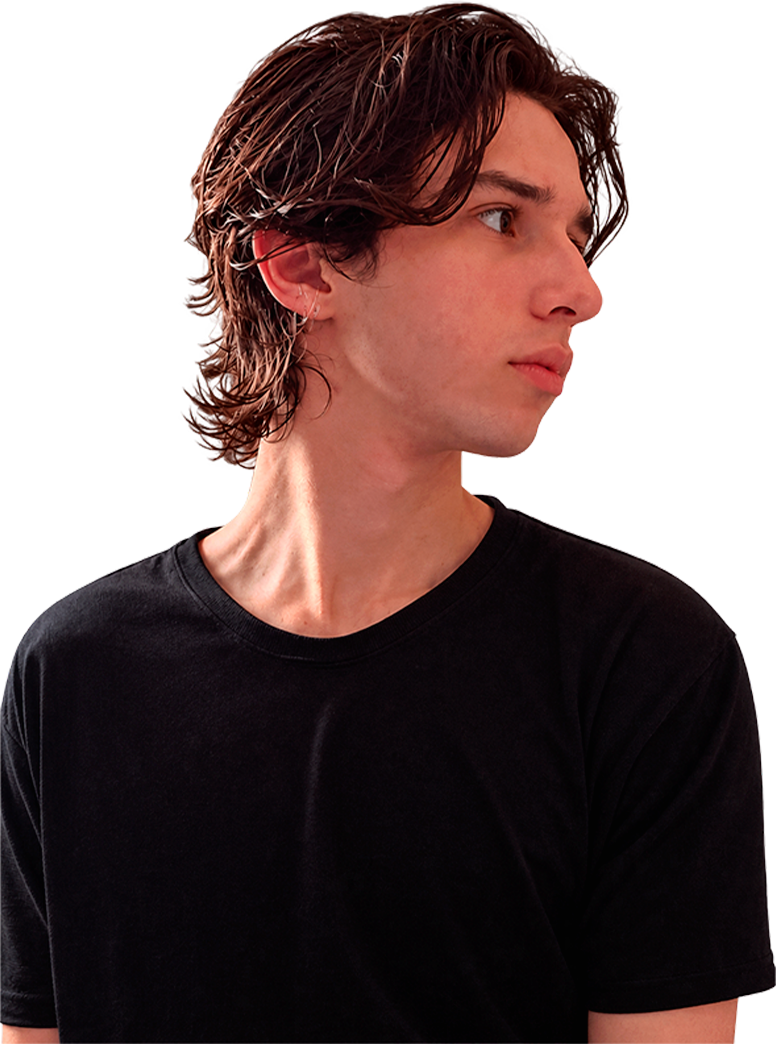
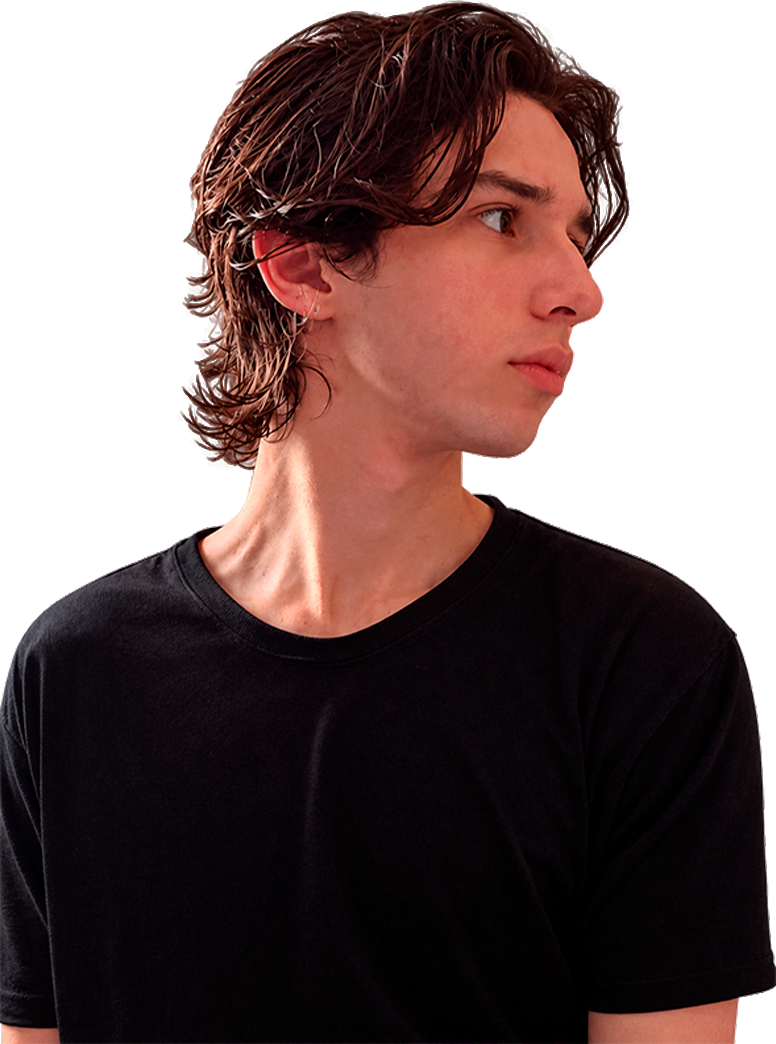
finished scope

diff --git a/app/page.tsx b/app/page.tsx
@@ -1,14 +1,17 @@
 "use client"
 
 import { themes } from "@/config/themes";
-import Name from "@/components/animation/Name";
+import MobilePage from "@/functions/MobilePage";
+
 import { hwrite } from "@/functions/HeaderWrite";
 import { pwrite } from "@/functions/ProjectsWrite";
 import { awrite } from "@/functions/AboutWrite";
-import MobilePage from "@/functions/MobilePage";
+
+import Name from "@/components/animation/Name";
 import { TechCards, WorkflowCards, ContactCards } from "@/components/Tech";
 import ProjectButton from "@/components/animation/ProjectButton";
 import Theme from "@/components/Theme Button";
+import Person from "@/components/Person";
 
 import gsap from "gsap";
 
@@ -70,6 +73,33 @@ export default function Home() {
   });
     });
 
+  mm.add("(min-width: 769px)", () => {
+      
+      if (!container.current
+        || !header.current
+        || !about.current
+        || !skills.current
+        || !projects.current
+        || !contact.current
+        || !PRcontainer.current
+        || !PRproject_1.current
+        || !PRproject_2.current
+        || !PRproject_3.current) return;
+
+      return MobilePage({
+    container: container.current,
+    header: header.current,
+    about: about.current,
+    skills: skills.current,
+    projects: projects.current,
+    contact: contact.current,
+    PRcontainer: PRcontainer.current,
+    PRproject_1: PRproject_1.current,
+    PRproject_2: PRproject_2.current,
+    PRproject_3: PRproject_3.current,
+  });
+    });
+
     return () => mm.revert();
   }, []);
 
@@ -77,7 +107,7 @@ export default function Home() {
     <div
       ref={container}
       className={`w-full h-screen flex overflow-hidden ${themes[currentTheme].background}
-      relative`}
+      relative ${themes[currentTheme].selection_background} ${themes[currentTheme].selection_text}`}
     >
         <div ref={header} className={`${themes[currentTheme].background} w-screen h-screen flex flex-col justify-between shrink-0 header pointer-events-auto`}>
           <div className="ml-5 mt-20 lg:mt-10 flex flex-col max-w-[250px] md:max-w-[300px] w-auto gap-1">
@@ -86,8 +116,8 @@ export default function Home() {
               <Theme themes={themes} currentTheme={currentTheme} setCurrentTheme={setCurrentTheme}/>
           </div>
           {windowWidth <= 768 ? <Image src='/Imagens/Mobile.png' width={768} height={1024} alt='personality'
-          className="w-full h-fit"></Image> : <Image src='/Imagens/Desktop.png' width={1536} height={864} alt='personality'
-          className="w-3/5 h-fit absolute right-0 bottom-0"></Image>}
+          className="w-full h-fit select-none"></Image> : <Image src='/Imagens/Desktop.png' width={1536} height={864} alt='personality'
+          className="w-3/5 h-fit absolute right-0 bottom-0 select-none"></Image>}
         </div>
 
 
@@ -102,18 +132,25 @@ export default function Home() {
             </div>
 
             <Image src={'/Imagens/Person Mobile.png'} width={768} height={1024} alt="me"
-            className="w-[90%] h-fit"></Image>
+            className="w-[90%] sm:w-[50%] md:w-[55%] h-fit select-none"></Image>
           </div>
-          : ''}
+          : <div className="w-screen h-screen flex items-end">
+            <div className="w-full h-full flex flex-col items-center justify-start gap-5">
+              <h1 className={`${themes[currentTheme].highlight_text} ${themes[currentTheme].highlight_text_shadow} font-montserrat font-bold text-5xl mt-5`}>Who I am</h1>
+              {awrite({themes, currentTheme})}
+            </div>
+
+            <Person  themes={themes} currentTheme={currentTheme}/>
+          </div>}
         </div>
 
         <div ref={skills} className={`${themes[currentTheme].background} w-screen h-screen flex shrink-0 about
         absolute inset-0 opacity-0 z-20 items-center justify-center pointer-events-none`}>
 
-          <div className="w-[300px] md:w-[400px] flex flex-col items-center gap-2">
+          <div className="w-[300px] md:w-[400px] lg:w-[75%] flex flex-col items-center gap-2">
             <h1 className={`${themes[currentTheme].highlight_text} ${themes[currentTheme].highlight_text_shadow} font-montserrat font-bold text-3xl`}>Stack</h1>
             {TechCards({themes, currentTheme})}
-            <h1 className={`${themes[currentTheme].highlight_text} ${themes[currentTheme].highlight_text_shadow} font-montserrat font-bold text-3xl mt-3`}>Workflow</h1>
+            <h1 className={`${themes[currentTheme].highlight_text} ${themes[currentTheme].highlight_text_shadow} font-montserrat font-bold text-3xl mt-3 lg:mt-5`}>Workflow</h1>
             {WorkflowCards({themes, currentTheme})}
           </div>
 
@@ -126,7 +163,7 @@ export default function Home() {
             <div className="h-full w-full absolute inset-0 z-31 pointer-events-none flex items-end justify-center" ref={PRproject_1}>
               <h1 className={`${themes[currentTheme].highlight_text} ${themes[currentTheme].highlight_text_shadow} font-montserrat font-bold text-4xl absolute z-2 top-7 left-[50%] translate-[-50%]`}>Projects</h1>
               <Image src={'/Imagens/Pokedex.png'} width={1920} height={1080} alt="Pokedex Web Application"
-              className="absolute inset-0 w-full h-full object-cover z-0">
+              className="absolute inset-0 w-full h-full object-cover z-0 select-none">
 
               </Image>
               <div className="absolute inset-0 bg-black/66 backdrop-blur-[2px]" />
@@ -140,7 +177,7 @@ export default function Home() {
             <div className="h-full w-full absolute inset-0 z-32 opacity-0 pointer-events-none flex items-end" ref={PRproject_2}>
               <h1 className={`${themes[currentTheme].highlight_text} ${themes[currentTheme].highlight_text_shadow} font-montserrat font-bold text-4xl absolute z-2 top-7 left-[50%] translate-[-50%]`}>Projects</h1>
               <Image src={'/Imagens/Larper.png'} width={1920} height={1080} alt="Larper"
-              className="absolute inset-0 w-full h-full object-cover z-0 object-[7%_50%]">
+              className="absolute inset-0 w-full h-full object-cover z-0 object-[7%_50%] select-none">
 
               </Image>
               <div className="absolute inset-0 bg-black/66 backdrop-blur-[2px]" />
@@ -154,7 +191,7 @@ export default function Home() {
             <div className="h-full w-full absolute inset-0 z-33 opacity-0 pointer-events-none flex items-end" ref={PRproject_3}>
               <h1 className={`${themes[currentTheme].highlight_text} ${themes[currentTheme].highlight_text_shadow} font-montserrat font-bold text-4xl absolute z-2 top-7 left-[50%] translate-[-50%]`}>Projects</h1>
               <Image src={'/Imagens/Livia Lace.png'} width={1920} height={1080} alt="Livia Lace"
-              className="absolute inset-0 w-full h-full object-cover z-0 object-[5%_50%]">
+              className="absolute inset-0 w-full h-full object-cover z-0 object-[5%_50%] select-none">
 
               </Image>
               <div className="absolute inset-0 bg-black/66 backdrop-blur-[2px]" />
@@ -174,8 +211,9 @@ export default function Home() {
             <ContactCards themes={themes} currentTheme={currentTheme}/>
           </div>
 
-          <Image src='/Imagens/Mobile.png' width={391} height={298} alt='personality'
-          className="w-full h-fit"></Image>
+          {windowWidth <= 768 ? <Image src='/Imagens/Mobile.png' width={768} height={1024} alt='personality'
+          className="w-full h-fit select-none"></Image> : <Image src='/Imagens/Desktop.png' width={1536} height={864} alt='personality'
+          className="w-3/5 h-fit xl:w-2/5 select-none"></Image>}
         </div>
 
     </div>

diff --git a/components/Tech.tsx b/components/Tech.tsx
@@ -13,14 +13,14 @@ export function TechCards({
 }: Theme){
 
     return (
-        <div className="flex flex-col gap-5 flex-col w-full justify-center">
-            <TiltCard card={<SiTypescript className={`size-8 md:size-10 h-auto ${themes[currentTheme].highlight_text}`}/>} themes={themes} currentTheme={currentTheme} size="w-full h-auto" tech={true} name="TypeScript" url=''/>
-            <TiltCard card={<SiJavascript className={`size-8 md:size-10 h-auto ${themes[currentTheme].highlight_text}`}/>} themes={themes} currentTheme={currentTheme} size="w-full h-auto" tech={true} name="JavaScript" url=''/>
-            <TiltCard card={<SiReact className={`size-8 md:size-10 h-auto ${themes[currentTheme].highlight_text}`}/>} themes={themes} currentTheme={currentTheme} size="w-full h-auto" tech={true} name="React" url=''/>
-            <TiltCard card={<SiNextdotjs className={`size-8 md:size-10 h-auto ${themes[currentTheme].highlight_text}`}/>} themes={themes} currentTheme={currentTheme} size="w-full h-auto" tech={true} name="Next.js" url=''/>
-            <TiltCard card={<SiTailwindcss className={`size-8 md:size-10 h-auto ${themes[currentTheme].highlight_text}`}/>} themes={themes} currentTheme={currentTheme} size="w-full h-auto" tech={true} name="Tailwind CSS" url=''/>
-            <TiltCard card={<SiPostgresql className={`size-8 md:size-10 h-auto ${themes[currentTheme].highlight_text}`}/>} themes={themes} currentTheme={currentTheme} size="w-full h-auto" tech={true} name="PostgreSQL" url=''/>
-            <TiltCard card={<SiPrisma className={`size-8 md:size-10 h-auto ${themes[currentTheme].highlight_text}`}/>} themes={themes} currentTheme={currentTheme} size="w-full h-auto" tech={true} name="Prisma" url=''/>
+        <div className="flex flex-col gap-5 lg:gap-3 flex-col lg:flex-row lg:flex-wrap w-full justify-center">
+            <TiltCard card={<SiTypescript className={`size-8 md:size-10 h-auto ${themes[currentTheme].highlight_text}`}/>} themes={themes} currentTheme={currentTheme} size="w-full lg:w-[40%] h-auto" tech={true} name="TypeScript" url=''/>
+            <TiltCard card={<SiJavascript className={`size-8 md:size-10 h-auto ${themes[currentTheme].highlight_text}`}/>} themes={themes} currentTheme={currentTheme} size="w-full lg:w-[40%] h-auto" tech={true} name="JavaScript" url=''/>
+            <TiltCard card={<SiReact className={`size-8 md:size-10 h-auto ${themes[currentTheme].highlight_text}`}/>} themes={themes} currentTheme={currentTheme} size="w-full lg:w-[40%] h-auto" tech={true} name="React" url=''/>
+            <TiltCard card={<SiNextdotjs className={`size-8 md:size-10 h-auto ${themes[currentTheme].highlight_text}`}/>} themes={themes} currentTheme={currentTheme} size="w-full lg:w-[40%] h-auto" tech={true} name="Next.js" url=''/>
+            <TiltCard card={<SiTailwindcss className={`size-8 md:size-10 h-auto ${themes[currentTheme].highlight_text}`}/>} themes={themes} currentTheme={currentTheme} size="w-full lg:w-[40%] h-auto" tech={true} name="Tailwind CSS" url=''/>
+            <TiltCard card={<SiPostgresql className={`size-8 md:size-10 h-auto ${themes[currentTheme].highlight_text}`}/>} themes={themes} currentTheme={currentTheme} size="w-full lg:w-[40%] h-auto" tech={true} name="PostgreSQL" url=''/>
+            <TiltCard card={<SiPrisma className={`size-8 md:size-10 h-auto ${themes[currentTheme].highlight_text}`}/>} themes={themes} currentTheme={currentTheme} size="w-full lg:w-[40%] h-auto" tech={true} name="Prisma" url=''/>
         </div>
     );
 }
@@ -31,10 +31,10 @@ export function WorkflowCards({
 }: Theme){
 
     return (
-        <div className="flex flex-col gap-5 flex-wrap w-full justify-center">
-            <TiltCard card={<SiGit className={`size-8 md:size-10 h-auto ${themes[currentTheme].highlight_text}`}/>} themes={themes} currentTheme={currentTheme} size="w-full h-auto" tech={true} name="Git" url=''/>
-            <TiltCard card={<SiGithub className={`size-8 md:size-10 h-auto ${themes[currentTheme].highlight_text}`}/>} themes={themes} currentTheme={currentTheme} size="w-full h-auto" tech={true} name="Github" url=''/>
-            <TiltCard card={<VscVscode className={`size-8 md:size-10 h-auto ${themes[currentTheme].highlight_text}`}/>} themes={themes} currentTheme={currentTheme} size="w-full h-auto" tech={true} name="VSCode" url=''/>
+        <div className="flex flex-col lg:flex-row gap-5 lg:gap-3 flex-wrap w-full justify-center">
+            <TiltCard card={<SiGit className={`size-8 md:size-10 h-auto ${themes[currentTheme].highlight_text}`}/>} themes={themes} currentTheme={currentTheme} size="w-full lg:w-[40%] h-auto" tech={true} name="Git" url=''/>
+            <TiltCard card={<SiGithub className={`size-8 md:size-10 h-auto ${themes[currentTheme].highlight_text}`}/>} themes={themes} currentTheme={currentTheme} size="w-full lg:w-[40%] h-auto" tech={true} name="Github" url=''/>
+            <TiltCard card={<VscVscode className={`size-8 md:size-10 h-auto ${themes[currentTheme].highlight_text}`}/>} themes={themes} currentTheme={currentTheme} size="w-full lg:w-[40%] h-auto" tech={true} name="VSCode" url=''/>
         </div>
     );
 }

diff --git a/config/themes.ts b/config/themes.ts
@@ -17,7 +17,9 @@ export const themes = {
     border: "border-Milk-6",
     icon: "text-Milk-4",
     button: "bg-Milk-1",
-    selection: "bg-Milk-5",
+    selection_background: "selection:bg-Milk-3",
+    selection_text: "selection:text-Milk-2",
+    censor: "Person Desktop Censor Pixels.png",
   },
 
   Dreams: {
@@ -38,7 +40,9 @@ export const themes = {
     border: "border-Dreams-6",
     icon: "text-Dreams-4",
     button: "bg-Dreams-1",
-    selection: "bg-Dreams-5",
+    selection_background: "selection:bg-Dreams-3",
+    selection_text: "selection:text-Dreams-1",
+    censor: "Person Desktop Censor Blur.png",
   },
 
   Vampire: {
@@ -59,7 +63,9 @@ export const themes = {
     border: "border-Vampire-6",
     icon: "text-Vampire-4",
     button: "bg-Vampire-1",
-    selection: "bg-Vampire-5",
+    selection_background: "selection:bg-Vampire-3",
+    selection_text: "selection:text-Vampire-2",
+    censor: "Person Desktop Censor Glitch.png",
   },
 
   Genius: {
@@ -80,7 +86,9 @@ export const themes = {
     border: "border-Genius-6",
     icon: "text-Genius-4",
     button: "bg-Genius-1",
-    selection: "bg-Genius-5",
+    selection_background: "selection:bg-Genius-4",
+    selection_text: "selection:text-Genius-1",
+    censor: "Person Desktop Censor X.png",
   },
 
   Trial: {
@@ -101,7 +109,9 @@ export const themes = {
     border: "border-Trial-6",
     icon: "text-Trial-4",
     button: "bg-Trial-1",
-    selection: "bg-Trial-5",
+    selection_background: "selection:bg-Trial-3",
+    selection_text: "selection:text-Trial-2",
+    censor: "Person Desktop Censor Missing.png",
   },
 
   Silent: {
@@ -122,7 +132,9 @@ export const themes = {
     border: "border-Silent-6",
     icon: "text-Silent-4",
     button: "bg-Silent-1",
-    selection: "bg-Silent-5",
+    selection_background: "selection:bg-Silent-3",
+    selection_text: "selection:text-Silent-2",
+    censor: "Person Desktop Censor Comic.png",
   },
 
   Config: {
@@ -139,6 +151,8 @@ export const themes = {
     border: '',
     icon: '',
     button: '',
+    selection_background: "",
+    selection_text: '',
     ThemeItem: 'p-2 font-montserrat font-semibold text-lg md:text-2xl flex items-center outline-none cursor-pointer',
   }
 };

diff --git a/components/Person.tsx b/components/Person.tsx
@@ -1,0 +1,50 @@
+import { useState } from "react";
+import Image from "next/image";
+
+import type { Theme } from "@/types/themes";
+
+export default function Person({
+  themes,
+  currentTheme,
+}: Theme){
+    const [position, setPosition] = useState({ x: 0, y: 0 });
+    const [hover, setHover] = useState(false);
+
+    return(
+    <div
+    className="relative w-[60%] h-fit mr-5"
+    onMouseMove={(e) => {
+        const rect = e.currentTarget.getBoundingClientRect();
+
+        setPosition({
+        x: e.clientX - rect.left,
+        y: e.clientY - rect.top,
+        });
+    }}
+    onMouseEnter={() => setHover(true)}
+    onMouseLeave={() => setHover(false)}
+    >
+    <Image
+        src="/Imagens/Person Desktop.png"
+        width={768} height={1024}
+        alt="me"
+        className="object-cover select-none"
+    />
+
+    <Image
+        src={`/Imagens/Censor/${themes[currentTheme].censor}`}
+        fill
+        alt=""
+        className="object-cover select-none"
+        style={{
+        maskImage: hover
+            ? `radial-gradient(circle 300px at ${position.x}px ${position.y}px, transparent 100%, black 100%)`
+            : "none",
+        WebkitMaskImage: hover
+            ? `radial-gradient(circle 300px at ${position.x}px ${position.y}px, transparent 100%, black 100%)`
+            : "none",
+        }}
+    />
+    </div>
+    );
+}

diff --git a/functions/AboutWrite.tsx b/functions/AboutWrite.tsx
@@ -32,9 +32,9 @@ export function awrite({themes, currentTheme}: Theme) {
   }, []);
 
   return (
-    <div className={`${themes[currentTheme].div_background} div_background min-w-[95%] min-h-[80%] rounded-[5px] p-3 pl-5 pr-5 border-2 border-color`}>
+    <div className={`${themes[currentTheme].div_background} div_background min-w-[95%] sm:min-w-[60%] 2xl:min-w-[50%] min-h-[80%] lg:min-h-[35%] rounded-[5px] p-3 pl-5 pr-5 border-2 border-color`}>
       <pre className="whitespace-pre-wrap font-montserrat font-semibold text-sm">
-        <p className={`${themes[currentTheme].highlight_text} ${themes[currentTheme].div_text_shadow} font-montserrat font-semibold text-base`}>{text}<span className="animate-pulse">|</span></p>
+        <p className={`${themes[currentTheme].highlight_text} ${themes[currentTheme].div_text_shadow} font-montserrat font-semibold text-base md:text-2xl lg:text-base 2xl:text-xl`}>{text}<span className="animate-pulse">|</span></p>
       </pre>
     </div>
   );

diff --git a/components/animation/ProjectButton.tsx b/components/animation/ProjectButton.tsx
@@ -13,10 +13,10 @@ export default function ProjectButton({
     
     return(
       <motion.div
-      className="w-1/2 md:scale-125 mt-2 mb-5"
+      className="w-1/2 md:scale-125 w-2/5 mt-2 mb-5"
       whileTap={{scale: 0.95}}>
         <Link href={url} target="_blank" >
-          <button className={`w-full p-3 font-montserrat font-semibold ${themes[currentTheme].button} ${themes[currentTheme].highlight_text}`}>Access</button>
+          <button className={`w-full p-3 font-montserrat font-semibold ${themes[currentTheme].button} ${themes[currentTheme].highlight_text} select-none`}>Access</button>
         </Link>
       </motion.div>
     );
